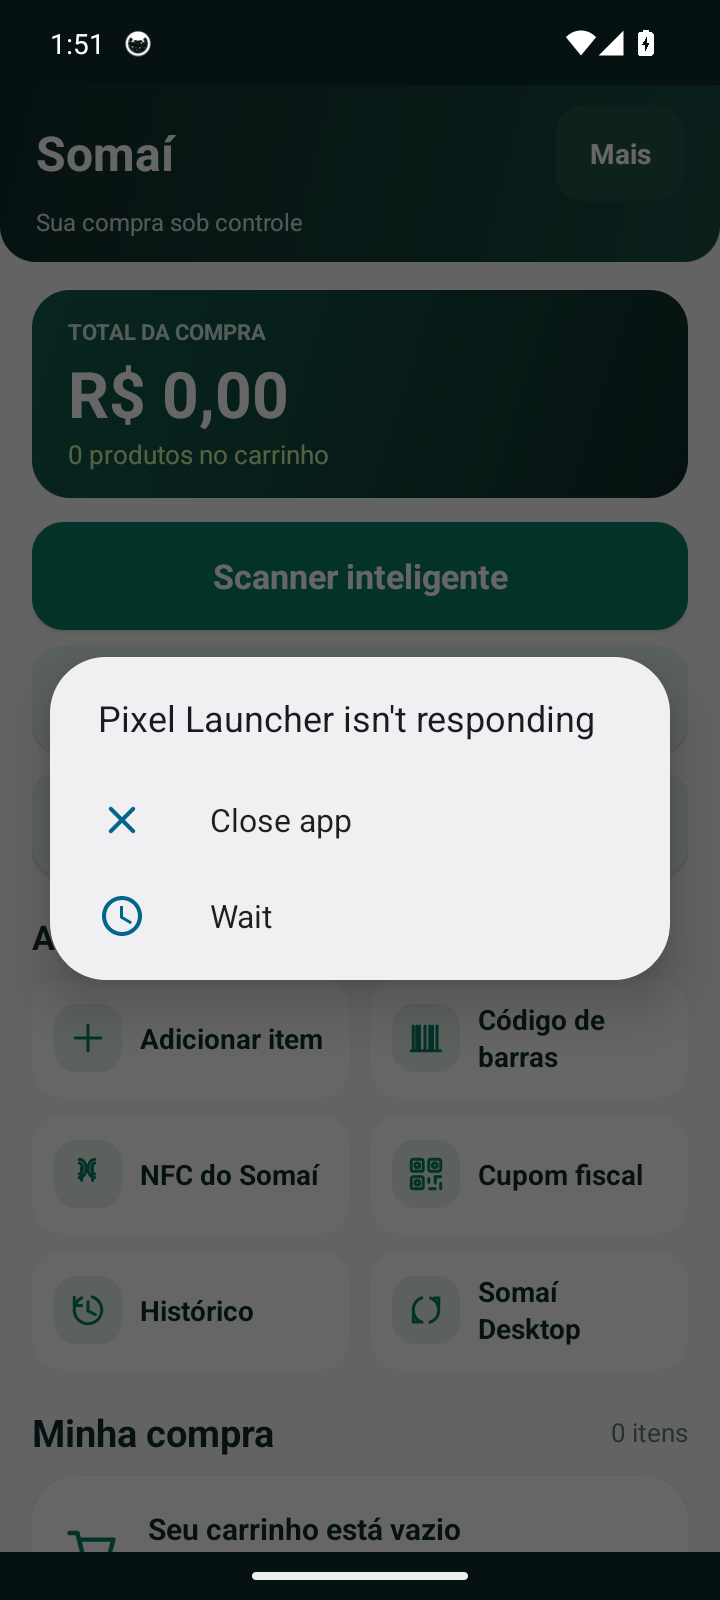
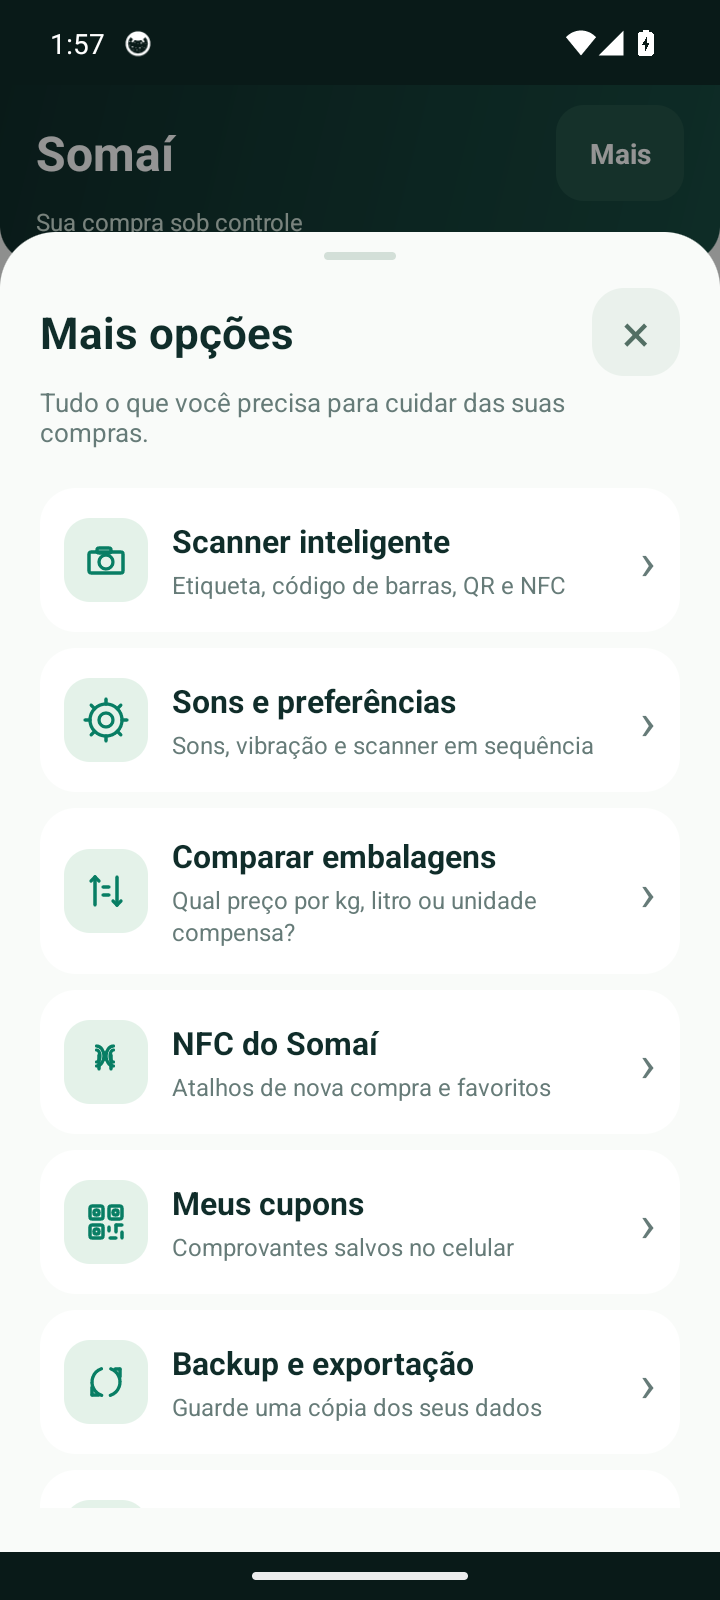
docs: publicar capturas reais do Somaí 1.9.7

diff --git a/README.md b/README.md
@@ -45,7 +45,13 @@ A proposta é concentrar recursos úteis em uma interface clara, com funções i
 As imagens desta seção vêm **do aplicativo Somaí em execução**, não de telas conceituais nem de ilustrações. A versão capturada será identificada junto das imagens.
 
 <!-- SOMAI_REAL_SCREENSHOTS_START -->
-*Estamos verificando as capturas reais do APK para exibir somente telas do Somaí, sem avisos do sistema ou imagens ilustrativas.*
+<div align="center">
+  <a href="docs/capturas/somai-inicio.png"><img src="docs/capturas/somai-inicio.png" alt="Captura real da página inicial do Somaí" width="235"></a>
+  <a href="docs/capturas/somai-menu-mais.png"><img src="docs/capturas/somai-menu-mais.png" alt="Captura real do menu Mais do Somaí" width="235"></a>
+  <a href="docs/capturas/somai-inicio-recursos.png"><img src="docs/capturas/somai-inicio-recursos.png" alt="Captura real da área de recursos do Somaí" width="235"></a>
+</div>
+
+<p align="center"><sub>Capturas reais feitas a partir do APK público Somaí 1.9.7, em um emulador Android limpo. Clique nas imagens para ampliar.</sub></p>
 <!-- SOMAI_REAL_SCREENSHOTS_END -->
 
 ## Como instalar
